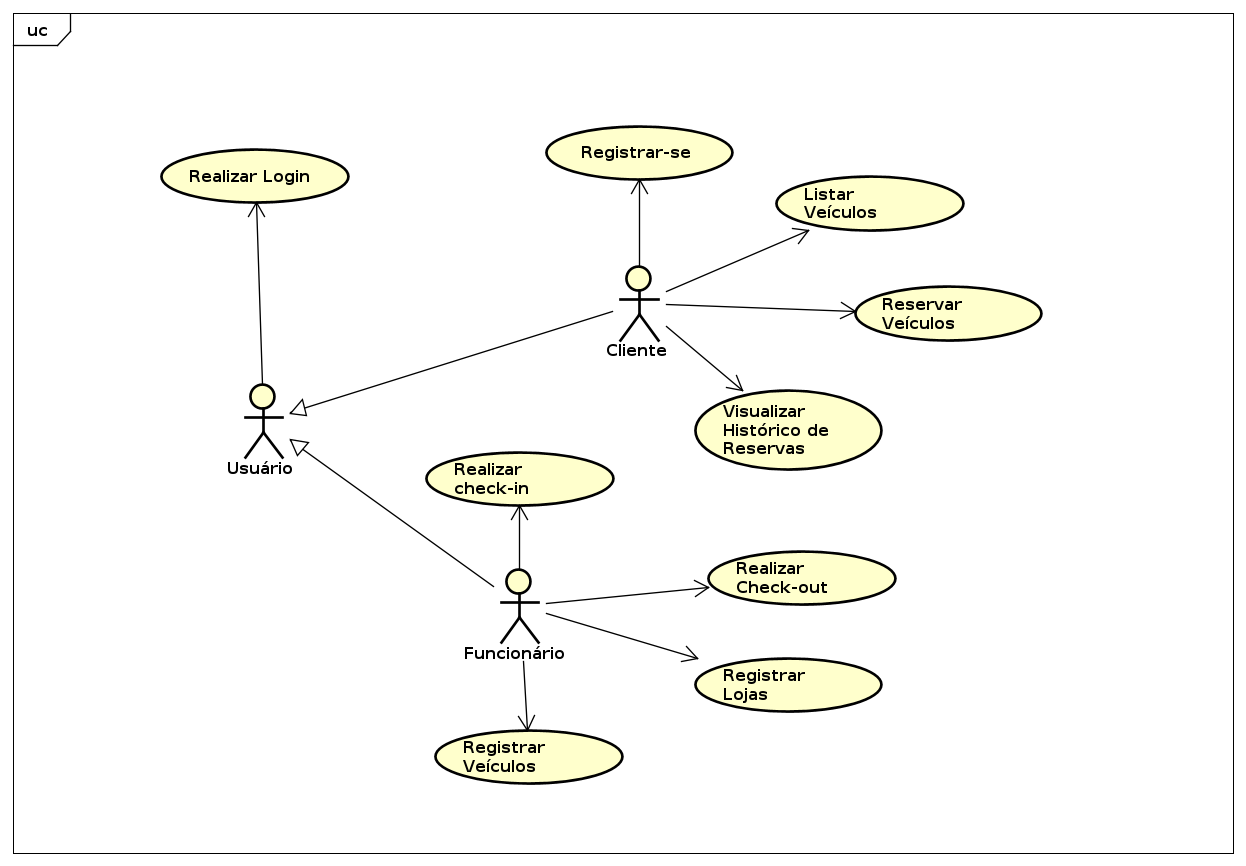
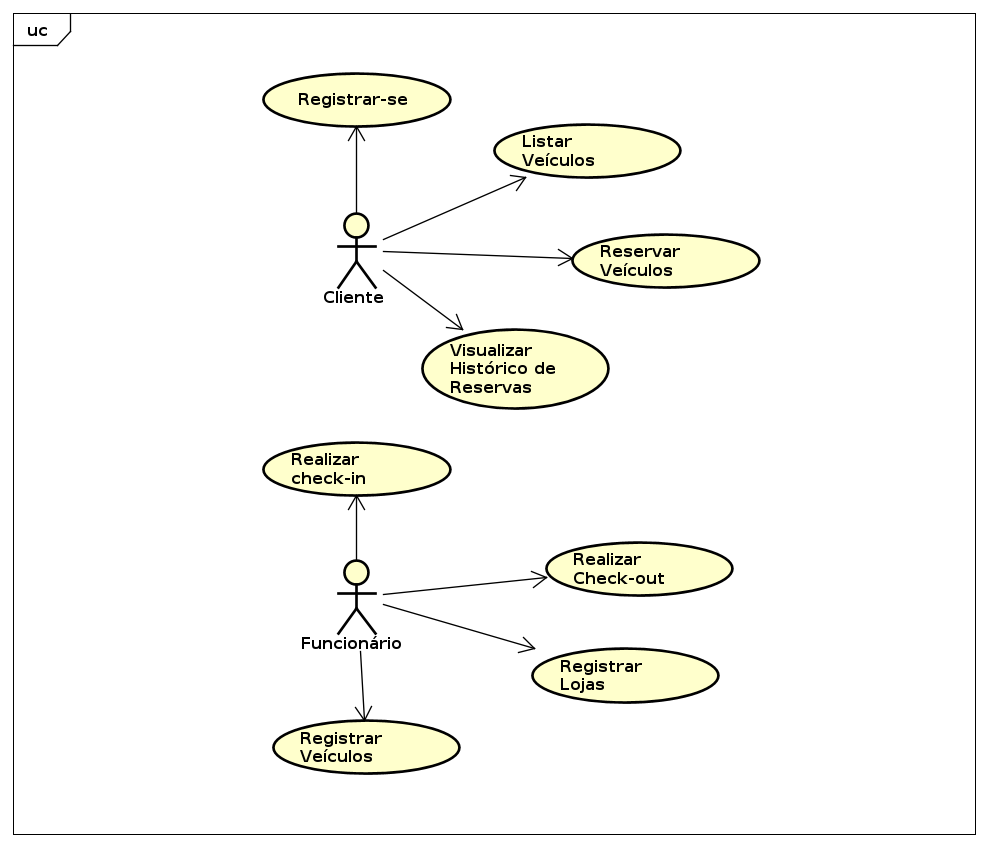
First round adjustments

diff --git a/textual/t4-metodologia.tex b/textual/t4-metodologia.tex
@@ -94,7 +94,7 @@ A pesquisa é executada seguindo os passos a seguir:
 
 \subsection{Contexto}
 \label{section:contexto}
-O estudo de caso é realizado em uma empresa fictícia chamada \emph{CarroFacil}. Essa empresa é uma locadora de veículos que atua em todo o território nacional. Ela possui uma frota de veículos própria e uma grande quantidade de clientes. Eles podem alugar veículos por períodos de tempo variados, desde horas até semanas. Os veículos são retirados em uma das lojas da empresa. A \emph{CarroFacil} possui um sistema de locação de veículos que foi desenvolvido há alguns anos e está apresentando problemas de escalabilidade, desempenho e manutenibilidade. Por esse motivo, a empresa decidiu desenvolver um novo sistema de locação de veículos utilizando microsserviços e \acrshort{ddd}.
+O estudo de caso é realizado em uma empresa fictícia chamada \emph{CarroFacil}. Essa empresa é uma locadora de veículos que atua em todo o território nacional. Ela possui uma frota de veículos própria e uma grande quantidade de clientes. Eles podem alugar veículos por períodos de tempo variados, desde horas até semanas. A \emph{CarroFacil} possui um sistema de locação de veículos que foi desenvolvido há alguns anos e está apresentando problemas de escalabilidade, desempenho e manutenibilidade. Por esse motivo, a empresa decidiu desenvolver um novo sistema de locação de veículos utilizando microsserviços e \acrshort{ddd}.
 
 \begin{figure}[!h]
     \centering
@@ -150,31 +150,6 @@ O caso de uso do \autoref{quad:registrar_cliente} especifica o registro de um cl
 
 \begin{quadro}[H]
     \centering
-    \caption{Realizar login}
-    \label{quad:realizar_login}
-    \begin{tabular}{|p{1.2in}|p{3.5in}|}
-    \hline
-    
-    \textbf{Caso de uso} & Realizar login\\ \hline
-    \textbf{Descrição} & Permite que um cliente ou funcionário realizem login na plataforma. \\ \hline
-    \textbf{Ator} & Cliente \\ \hline
-    \textbf{Pre-condições} & O usuário está registrado na plataforma.\\ \hline
-    \textbf{Pós-condições} & O usuário está autenticado.\\ \hline
-    \textbf{Cenário Principal} & \begin{enumerate}
-        \item O usuário informa seu email e senha.
-        \item O usuário envia a requisição.
-    \end{enumerate}  \\ \hline
-    \textbf{Fluxo de Exceção} & \begin{enumerate}
-        \item O email ou senha informados estão incorretos. Nesse caso, o sistema exibe uma mensagem de erro.
-    \end{enumerate}  \\ \hline
-    \end{tabular} 
-    \fonte{o autor.}
-\end{quadro}
-
-O caso de uso do \autoref{quad:realizar_login} especifica o processo de autenticação de um usuário. Esse é o segundo passo para que um cliente possa realizar uma reserva de veículo.
-
-\begin{quadro}[H]
-    \centering
     \caption{Listar veículos}
     \label{quad:listar_veiculos}
     \begin{tabular}{|p{1.2in}|p{3.5in}|}
@@ -183,7 +158,7 @@ O caso de uso do \autoref{quad:realizar_login} especifica o processo de autentic
     \textbf{Caso de uso} & Listar veículos \\ \hline
     \textbf{Descrição} & Permite que o cliente visualize os veículos disponíveis para locação. \\ \hline
     \textbf{Ator} & Cliente \\ \hline
-    \textbf{Pre-condições} & - \\ \hline
+    \textbf{Pre-condições} & O cliente está autenticado na plataforma. \\ \hline
     \textbf{Pós-condições} & Uma listagem de veículos disponíveis é exibida. \\ \hline
     \textbf{Cenário Principal} & O cliente acessa a página de veículos, onde é possível visualizar os veículos disponíveis. \\ \hline
     
@@ -203,7 +178,7 @@ O \autoref{quad:listar_veiculos} especifica o processo de listagem de veículos.
     \textbf{Caso de uso} & Reservar um veículo \\ \hline
     \textbf{Descrição} & Permite que um cliente reserve um veículo por um período de tempo. \\ \hline
     \textbf{Ator} & Cliente \\ \hline
-    \textbf{Pre-condições} & Cliente está autenticado na plataforma. \\ \hline
+    \textbf{Pre-condições} & O cliente está autenticado na plataforma. \\ \hline
     \textbf{Pós-condições} & Veículo reservado fica indisponível para outros clientes. \\ \hline
     \textbf{Cenário Principal} & \begin{enumerate}
         \item O usuário seleciona o veículo, a data de início e a data de término da locação.
@@ -231,6 +206,7 @@ O \autoref{quad:reservar_veiculo} especifica o processo de reserva de um veícul
     \textbf{Descrição} & Permite a realização do check-in da reserva entre o cliente e o funcionário. \\ \hline
     \textbf{Ator} & Funcionário \\ \hline
     \textbf{Pre-condições} & \begin{enumerate}
+        \item \O cliente está autenticado na plataforma.
         \item O cliente possui uma reserva criada e seu identificador.
     \end{enumerate} \\ \hline
     \textbf{Pós-condições} & O status da reserva é alterado para em progresso. \\ \hline
@@ -257,9 +233,10 @@ O caso de uso Realizar \english{check-in} é apresentado no \autoref{quad:realiz
     \textbf{Ator} & Funcionário \\ \hline
     \textbf{Pre-condições} & \begin{enumerate}
         \item O cliente possui uma reserva em progresso e seu identificador.
+        \item O cliente está autenticado na plataforma.
     \end{enumerate} \\ \hline
     \textbf{Pós-condições} & O status da reserva é alterado para concluída. \\ \hline
-    \textbf{Cenário Principal} & O cliente retorna o veículo para a loja, o funcionário verifica o estado do veículo, e obtém informações sobre a reserva a partir da placa. Por fim, o funcionário finaliza a reserva. \\ \hline
+    \textbf{Cenário Principal} & O cliente retorna o veículo, o funcionário verifica o estado do veículo, e obtém informações sobre a reserva a partir da placa. Por fim, o funcionário finaliza a reserva. \\ \hline
     \textbf{Fluxo de Exceção} & \begin{enumerate}
         \item O \english{check-in} não foi realizado para reserva.
         \item O usuário é alertado sobre o problema.
@@ -292,31 +269,6 @@ O \autoref{quad:listar_reservas} especifica o processo de listagem de reservas. 
 
 \begin{quadro}[H]
     \centering
-    \caption{Registrar loja}
-    \label{quad:registrar_loja}
-    \begin{tabular}{|p{1.2in}|p{3.5in}|}
-    \hline
-    
-    \textbf{Caso de uso} & Registrar loja \\ \hline
-    \textbf{Descrição} & Permite que um funcionário registre uma nova loja na plataforma. \\ \hline
-    \textbf{Ator} & Funcionário \\ \hline
-    \textbf{Pre-condições} & O funcionário está autenticado. \\ \hline
-    \textbf{Pós-condições} & A loja é registrada na plataforma. \\ \hline
-    \textbf{Cenário Principal} & \begin{enumerate}
-        \item O funcionário informa o nome, endereço, latitude e longitude da loja.
-        \item O funcionário envia a requisição.
-    \end{enumerate}  \\ \hline
-    \textbf{Fluxo de Exceção} & \begin{enumerate}
-        \item Dados inválidos são informados. Nesse caso, o sistema exibe uma mensagem de erro.
-    \end{enumerate}  \\ \hline
-    \end{tabular}
-    \fonte{o autor.}
-\end{quadro}
-
-O \autoref{quad:registrar_loja} especifica o processo de registro de uma loja. Esse processo é realizado pelo funcionário e permite que ele registre uma nova loja na plataforma.
-
-\begin{quadro}[H]
-    \centering
     \caption{Registrar veículo}
     \label{quad:registrar_veiculo}
     \begin{tabular}{|p{1.2in}|p{3.5in}|}
@@ -328,7 +280,7 @@ O \autoref{quad:registrar_loja} especifica o processo de registro de uma loja. E
     \textbf{Pre-condições} & O funcionário está autenticado. \\ \hline
     \textbf{Pós-condições} & O veículo é registrado na plataforma. \\ \hline
     \textbf{Cenário Principal} & \begin{enumerate}
-        \item O funcionário informa o tipo, loja, marca, modelo, kilometragem, ano, placa, chassis e a cor do veículo.
+        \item O funcionário informa o tipo, marca, modelo, kilometragem, ano, placa, chassis e a cor do veículo.
         \item O funcionário envia a requisição.
     \end{enumerate}  \\ \hline
     \textbf{Fluxo de Exceção} & \begin{enumerate}
@@ -357,7 +309,7 @@ Para realização do \english{design} deste projeto, é utilizado a \english{UML
 \subsection{Implementação}
 A implementação desse projeto é feita utilizando a linguagem de programação \english{Java} na versão 17 \cite{java}. Além disso, o \english{framework} \english{Spring Boot} é empregado na construção dos microsserviços. Essa ferramenta fornece uma série de recursos para construção de microsserviços como: injeção de dependências, configuração de banco de dados, configuração de \english{logs}, entre outros \cite{springBoot}. 
 
-São utilizados dois banco de dados para armazenamento dos dados do sistema. O primeiro é um banco de dados relacional, que armazena dados de reservas, veículos e lojas. O segundo é um banco de dados não relacional, que armazena dados de usuários. Para o banco de dados relacional, é utilizado o \english{PostgreSQL} \cite{postgreSql}. Para o banco de dados não relacional, foi escolhido o \english{Amazon DynamoDB} \cite{dynamoDb}.
+São utilizados dois banco de dados para armazenamento dos dados do sistema. O primeiro é um banco de dados relacional, que armazena dados de reservas e veículos. O segundo é um banco de dados não relacional, que armazena dados de usuários. Para o banco de dados relacional, é utilizado o \english{PostgreSQL} \cite{postgreSql}. Para o banco de dados não relacional, foi escolhido o \english{Amazon DynamoDB} \cite{dynamoDb}.
 
 O \english{PostgreSQL} é um sistema de gerenciamento de banco de dados relacional de código aberto. Esse banco de dados é um dos mais populares do mundo, sendo utilizado por diversas empresas, como: \english{Apple}, \english{Spotify}, \english{Netflix}, entre outras \cite{postgreSql}. Trata-se de um banco de dados escalável, confiável, fácil de usar e com suporte a transações \acrshort{acid}.
 

diff --git a/textual/t5-desenvolvimento.tex b/textual/t5-desenvolvimento.tex
@@ -19,12 +19,12 @@ Para este trabalho, os requistos foram definidos no \autoref{cap:metodologia}. D
 \section{Design}
 Esta seção utiliza como entrada os requisitos funcionais e não-funcionais definidos no \autoref{cap:metodologia} para descrever o design do sistema utilizando \acrfull{ams} e \acrfull{ddd}.
 
-Inicialmente, é importante definir as abstrações chaves do sistema, bem como seus relacionamentos. A \autoref{fig:abstracoes_chave} ilustra as abstrações do sistema.
+Inicialmente, é importante definir as abstrações chaves do sistema, bem como seus relacionamentos. A \autoref{fig:modelo_conceitual} ilustra as abstrações do sistema.
 
 \begin{figure}[H]
     \centering
-    \caption{Abstrações Chave do Sistema}
-    \fbox{\includegraphics[width=0.8\textwidth]{media/abstracoes_chave.png}}
+    \caption{Modelo conceitual do sistema}
+    \includegraphics[width=0.8\textwidth]{media/modelo_conceitual.png}
     \fonte{o autor}
-    \label{fig:abstracoes_chave}
+    \label{fig:modelo_conceitual}
 \end{figure}

diff --git a/Principal.tex b/Principal.tex
@@ -29,10 +29,10 @@
 % \coorientador{Profa. M.Sc. Nome da Professora Coorientadora}
 
 \local{Campos dos Goytacazes-RJ}
-\dia{29}
-\mes{abril}
+\dia{12}
+\mes{outubro}
 \ano{2024}
-\data{Abril de \imprimirano}
+\data{Outubro de \imprimirano}
 
 \instituicao{Instituto Federal de Educação, Ciência e Tecnologia Fluminense}
 \campus{Campos-Centro}
